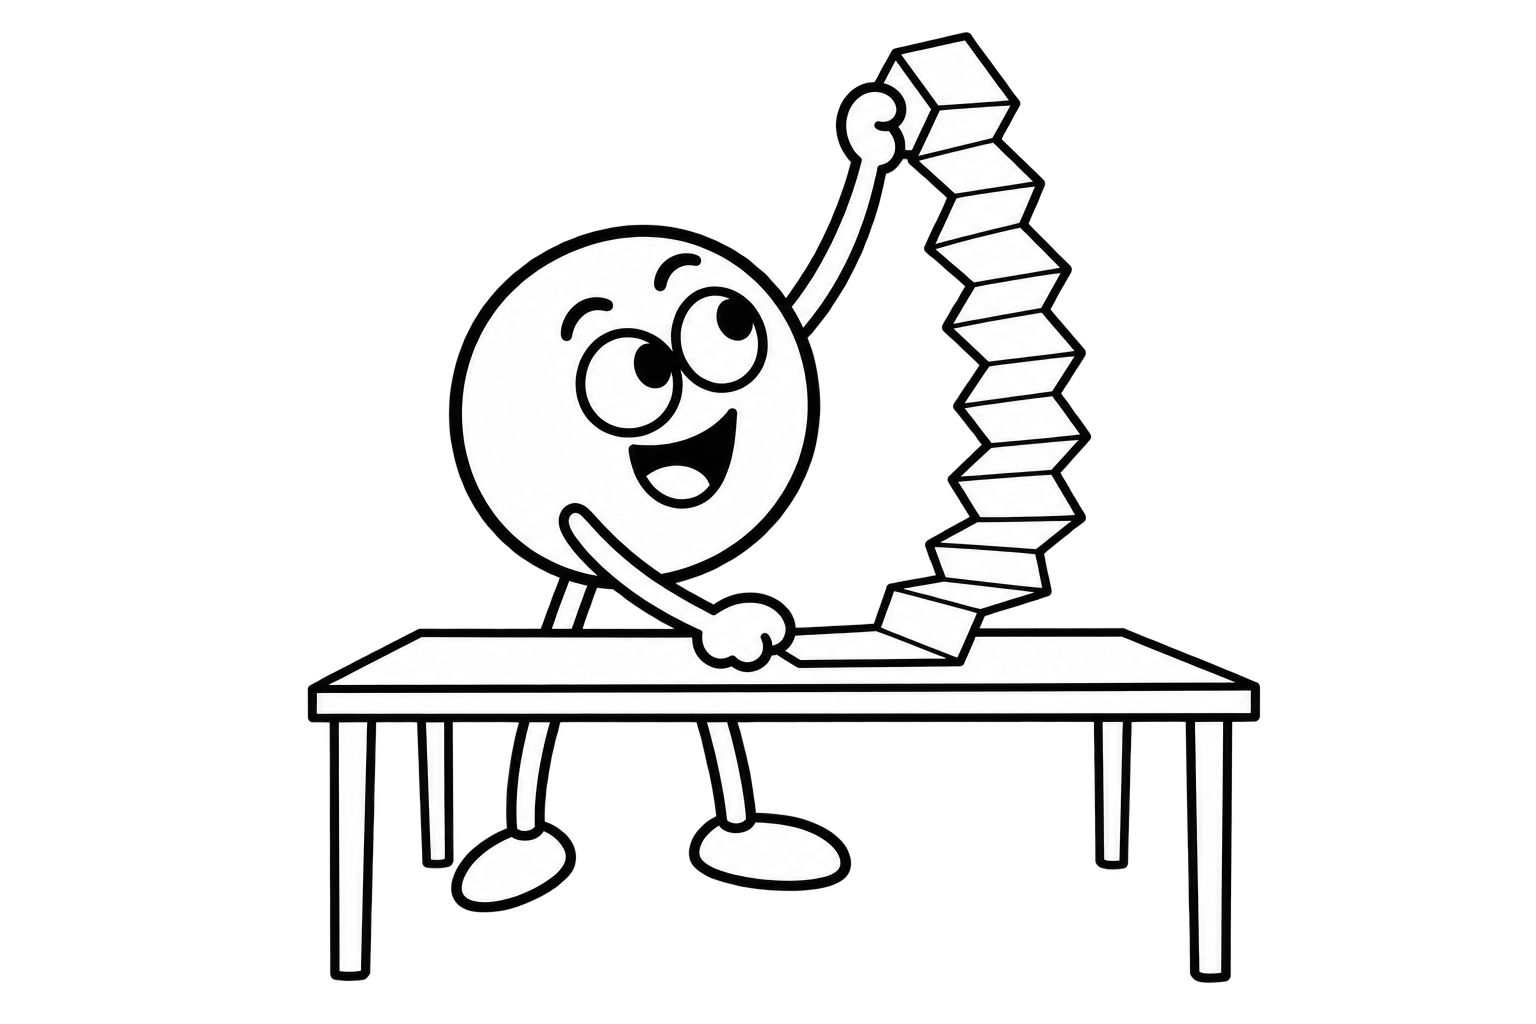
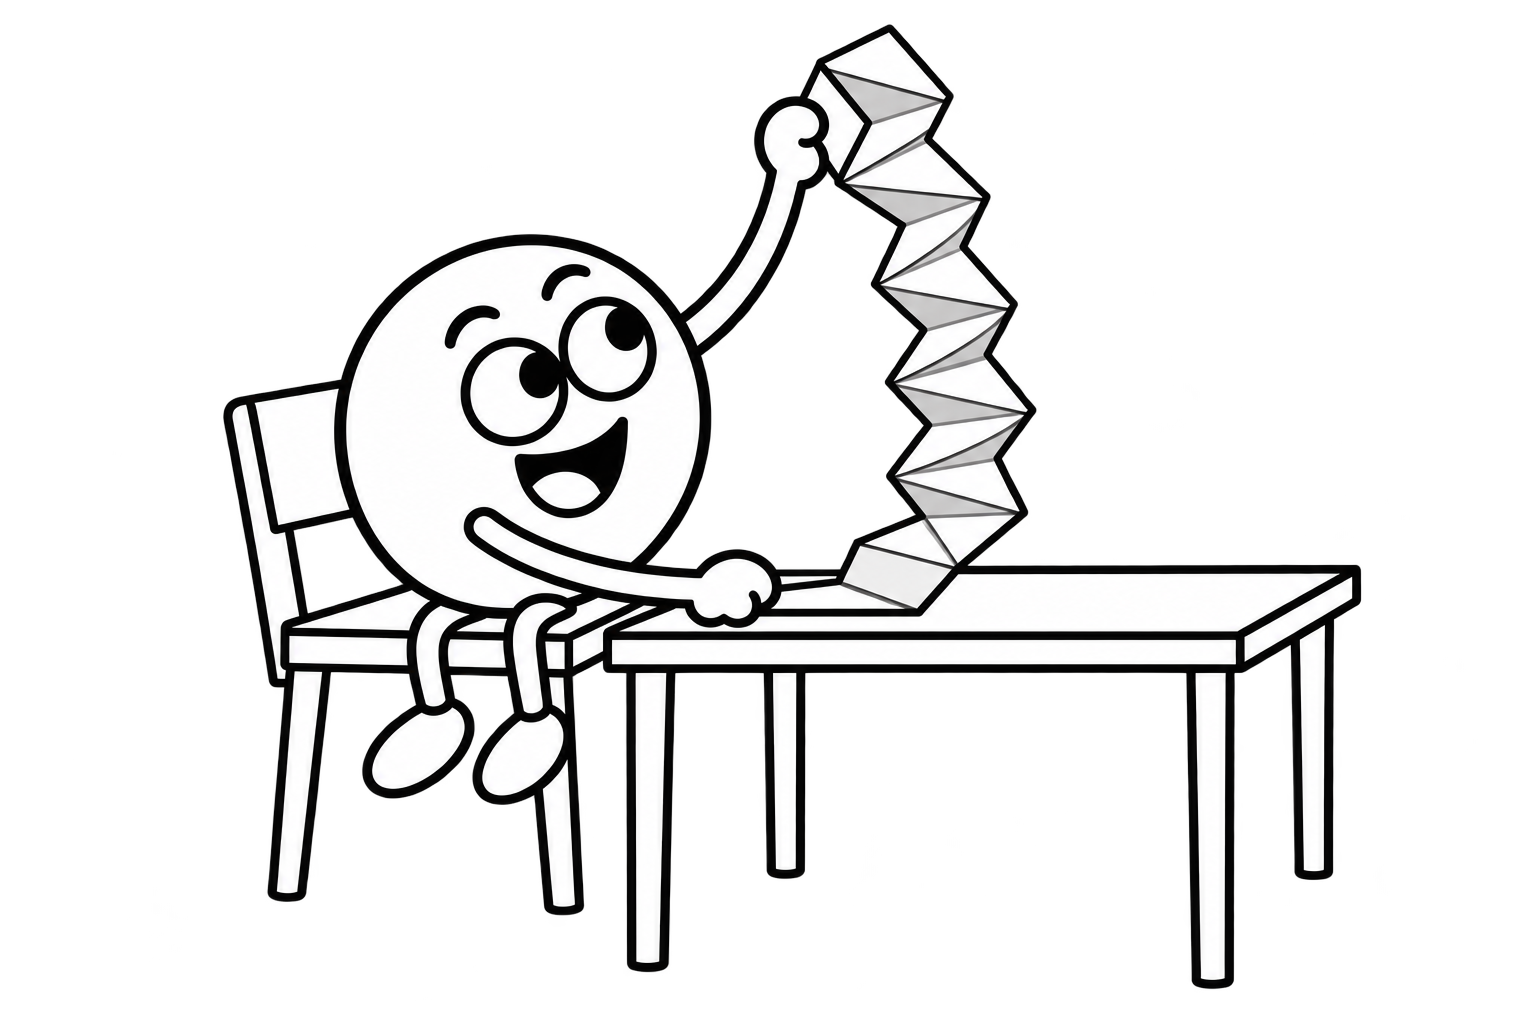
Seat the origamist and give the paper repeated folded facets

Changed region(s): [[0.125, 0.0312, 0.9062, 0.9688]]

diff --git a/docs/deep/index.html b/docs/deep/index.html
@@ -97,7 +97,7 @@
         <div class="stage-topline"><span class="stage-title" id="stage-title">One ten-joint curve</span><span class="step-count" id="stage-count" aria-live="polite" aria-atomic="true">1 / 8</span></div>
         <p class="stage-subtitle" id="stage-subtitle">22 deep parameters · at least 31 shallow parameters</p>
         <div class="stage-figure">
-          <div class="cover-art" id="cover-art"><img src="assets/origami-folding-character.png" width="1536" height="1024" alt="A gleeful round cartoon character stands at a table, lifting one end of accordion-folded paper overhead in a gentle arc while its flat end rests on the tabletop." decoding="async" fetchpriority="high"></div>
+          <div class="cover-art" id="cover-art"><img src="assets/origami-folding-character.png?v=seated-folds" width="1536" height="1024" alt="A gleeful round character sits on a visible chair seat with his feet dangling, lifting an origami strip with repeating triangular folds in a gentle arc from the table." decoding="async" fetchpriority="high"></div>
           <div class="surface-view" hidden><svg id="surface" role="img" aria-label="Response curve and folded input"></svg></div>
         </div>
         <div class="feature-view" hidden><svg id="feature-plot" role="img" aria-label="Downstream pattern in the folded coordinate q"></svg></div>

diff --git a/docs/deep/README.md b/docs/deep/README.md
@@ -12,7 +12,9 @@ Hosted path: <https://alexanderthclark.github.io/pols4728/deep/>.
 The page is a static ES-module site with no build step or external runtime.
 
 The opening frame uses `assets/origami-folding-character.png`: a gleeful round
-character lifts an accordion-folded paper strip from a table. Its monochrome
+character sits directly on a visible chair seat with his feet dangling and lifts
+an origami strip from a table. Repeating diagonal creases form triangular folded
+facets in the paper itself. Its monochrome
 artwork is registered in `design/assets.json`, preserves its transparent
 background and full silhouette, and appears only on the title frame. The title
 and mathematical explanation remain real HTML text; frames 2–8 retain the
